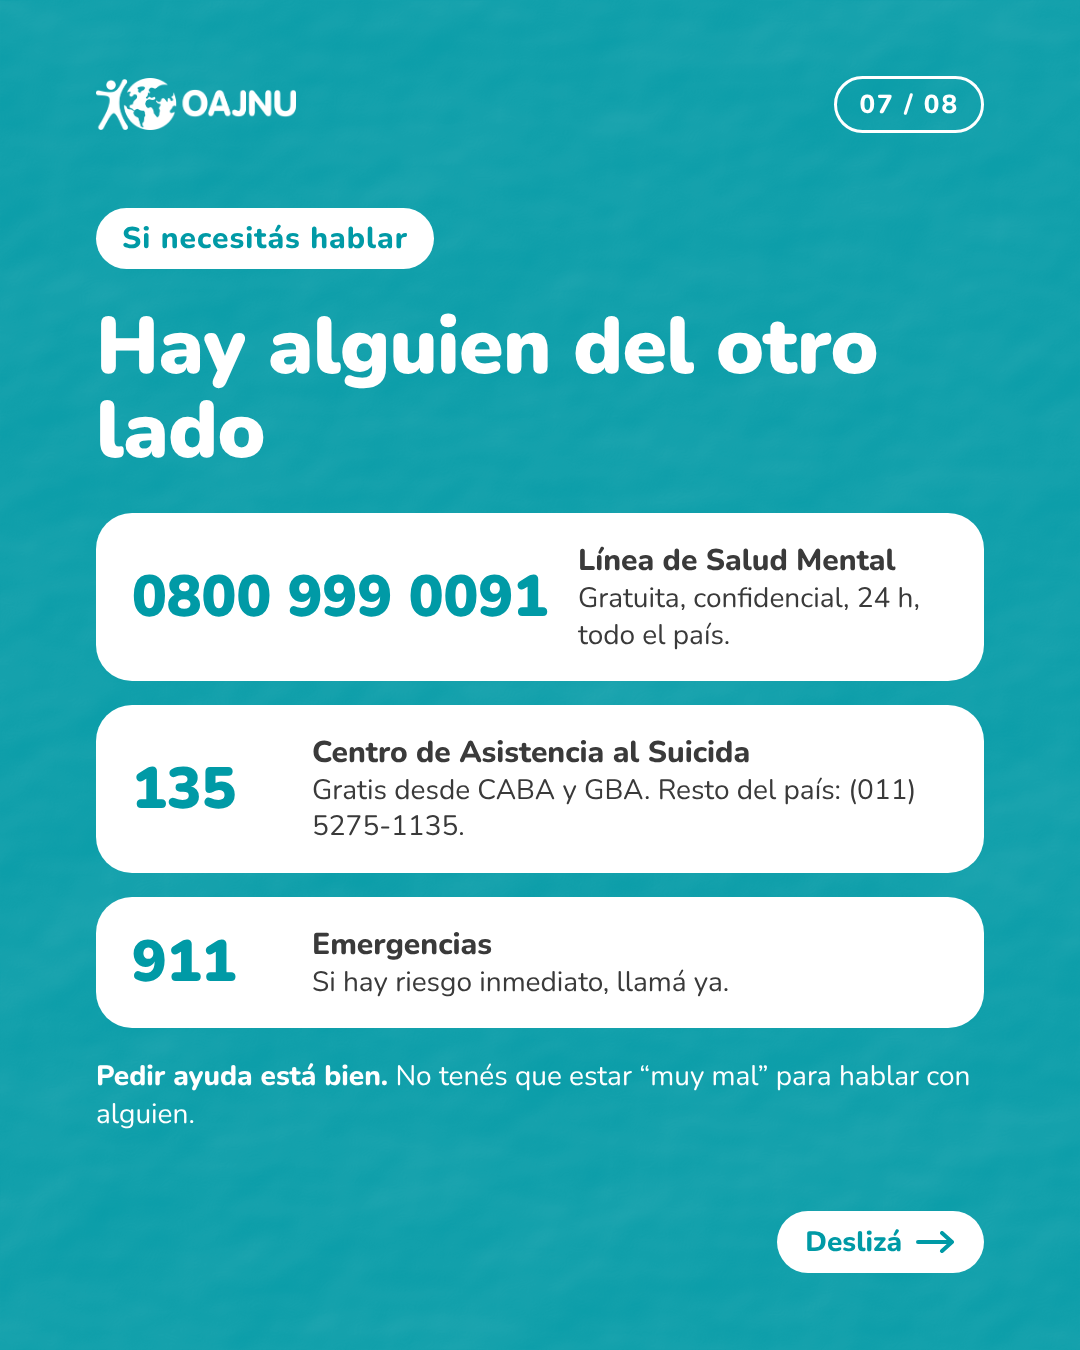
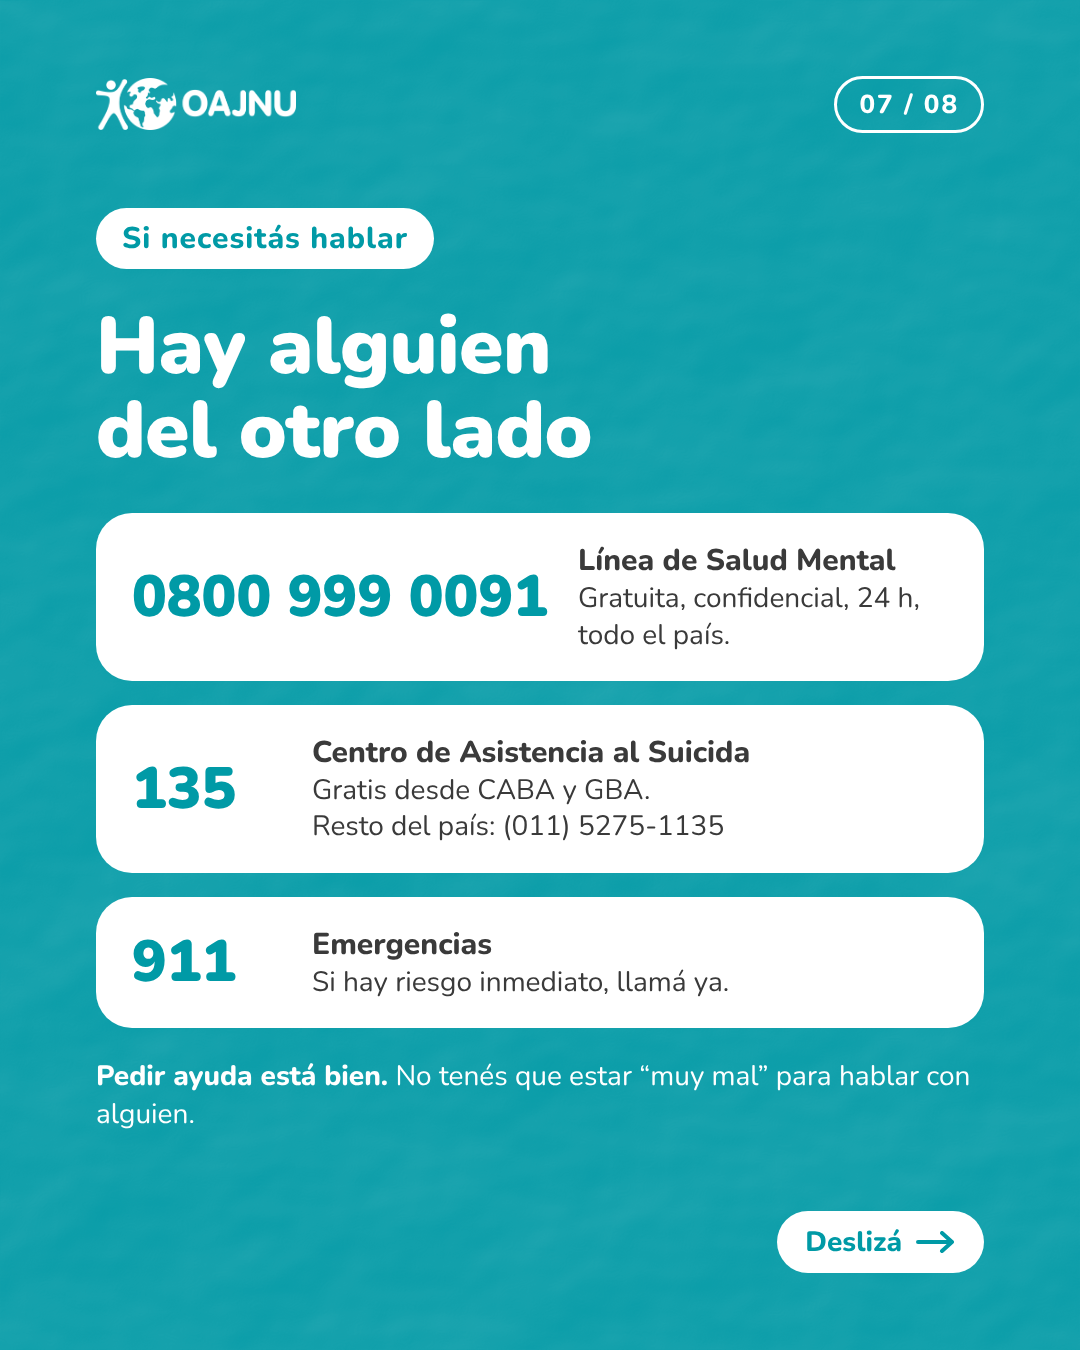
Ajustes al carrusel: portada sin bajada, 1/7, líneas de ayuda y títulos en dos líneas
Claude-Session: https://claude.ai/code/session_01BXRxF7L7LKCtWKXhXPWCma

diff --git a/carrusel-salud-mental/carrusel.html b/carrusel-salud-mental/carrusel.html
@@ -110,8 +110,8 @@
 
   /* ---------- Placa 1: portada ---------- */
   .portada .cuerpo { justify-content: center; }
-  .portada h1 { font-size: 132px; }
-  .portada .papelito { font-weight: 900; font-size: 76px; margin-top: 28px; margin-left: 6px; }
+  .portada h1 { font-size: 140px; }
+  .portada .papelito { font-weight: 900; font-size: 80px; margin-top: 36px; margin-left: 6px; }
   .portada .bajada { font-size: 40px; line-height: 1.35; margin-top: 52px; max-width: 800px; }
   .burbujas { position: absolute; right: 96px; top: 176px; width: 230px; z-index: 1; }
 
@@ -122,7 +122,7 @@
   /* ---------- Placa 3: datos ---------- */
   .datos { display: flex; flex-direction: column; gap: 32px; }
   .dato { display: flex; gap: 36px; align-items: center; }
-  .dato .num { font-weight: 900; font-size: 100px; line-height: 1; min-width: 300px; white-space: nowrap; }
+  .dato .num { font-weight: 900; font-size: 100px; line-height: 1; min-width: 240px; white-space: nowrap; }
   .dato p { font-size: 36px; }
   .fuente { font-size: 24px; opacity: 0.85; margin-top: 36px; }
 
@@ -212,7 +212,6 @@
     <span class="etiqueta">Día Mundial de la Salud Mental</span>
     <h1>¿Y vos,<br>cómo estás?</h1>
     <span class="papelito">(pero de verdad)</span>
-    <p class="bajada">Hoy hablamos de algo que nos importa: <strong>cuidarnos entre pares</strong>.</p>
   </div>
   <div class="pie">
     <span></span>
@@ -256,7 +255,7 @@
     <h2>Nos pasa más de lo que creemos</h2>
     <div class="datos">
       <div class="dato tarjeta">
-        <span class="num">1 de 7</span>
+        <span class="num">1/7</span>
         <p>adolescentes de 10 a 19 años en el mundo vive con un problema de salud mental.</p>
       </div>
       <div class="dato tarjeta">
@@ -356,7 +355,7 @@
   </div>
   <div class="cuerpo">
     <span class="etiqueta">Si necesitás hablar</span>
-    <h2>Hay alguien del otro lado</h2>
+    <h2>Hay alguien<br>del otro lado</h2>
     <div class="lineas">
       <div class="linea">
         <span class="tel">0800 999 0091</span>
@@ -364,7 +363,7 @@
       </div>
       <div class="linea">
         <span class="tel">135</span>
-        <p><strong>Centro de Asistencia al Suicida</strong>Gratis desde CABA y GBA. Resto del país: (011) 5275-1135.</p>
+        <p><strong>Centro de Asistencia al Suicida</strong>Gratis desde CABA y GBA.<br><span style="white-space:nowrap">Resto del país: (011) 5275-1135</span></p>
       </div>
       <div class="linea">
         <span class="tel">911</span>
@@ -400,7 +399,7 @@
       </div>
       <div class="accion">
         <svg viewBox="0 0 64 64" fill="none" stroke="#fff" stroke-width="6" stroke-linecap="round" stroke-linejoin="round"><path d="M10 12h44a4 4 0 0 1 4 4v26a4 4 0 0 1-4 4H28l-12 10V46h-6a4 4 0 0 1-4-4V16a4 4 0 0 1 4-4z"/></svg>
-        Preguntale cómo está
+        Preguntale<br>cómo está
       </div>
     </div>
     <img class="logo-grande" src="assets/logo-blanco.png" alt="OAJNU">
